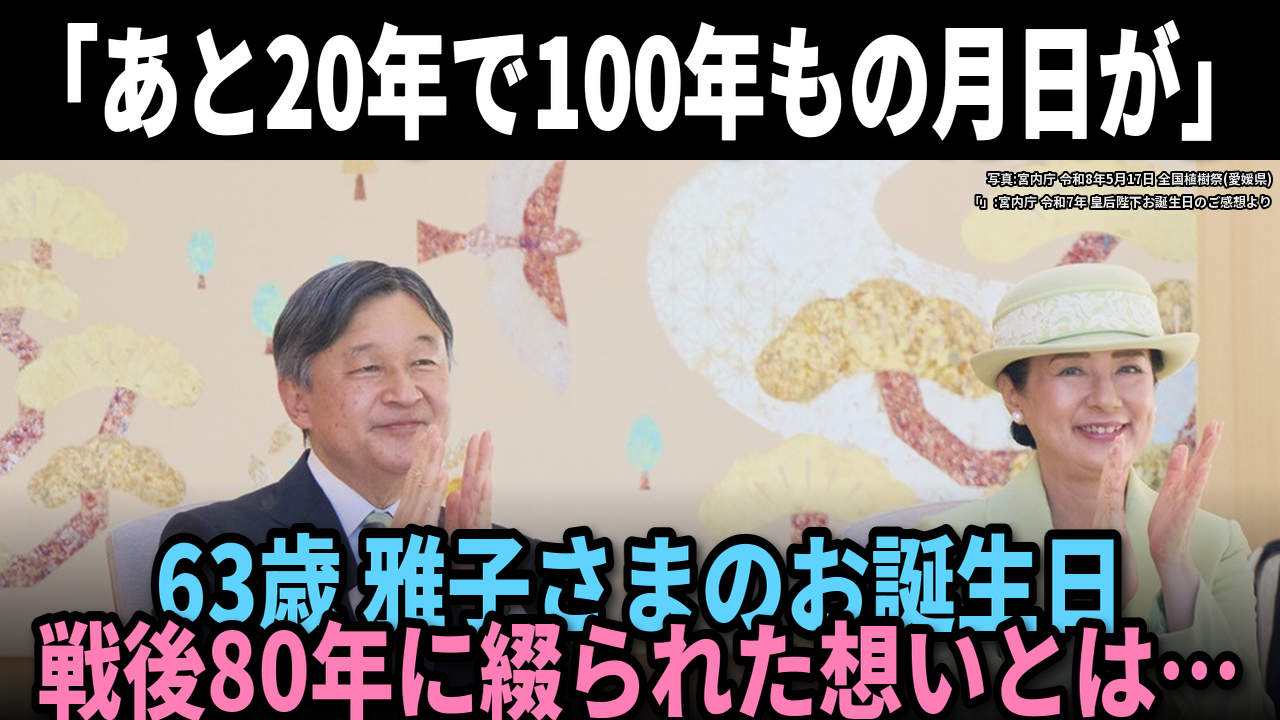
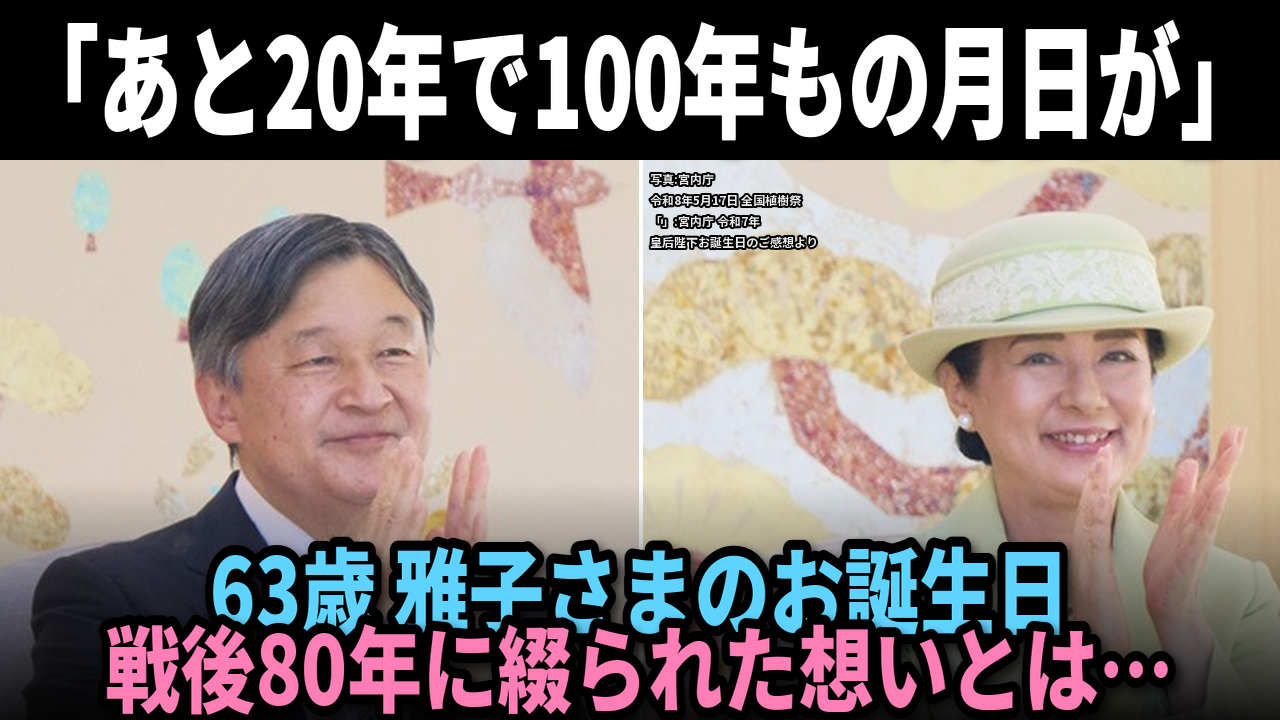
表紙 長尺②: お顔を見本の大きさ(画面の高さの約4割)に。両陛下を左右2枚に分けて拡大
Claude-Session: https://claude.ai/code/session_01BJaPidxzmnRS1K4CmysiYX

diff --git a/projects/PLAN-20261127-DRAMA/thumb_v3/make_v3.py b/projects/PLAN-20261127-DRAMA/thumb_v3/make_v3.py
@@ -19,7 +19,7 @@ BLUE = (95, 211, 255); PINK = (255, 126, 182)   # 3段の時は3色(荒木指示
 # お顔・頭の範囲(書き出し後の座標。目視で登録し、余白30pxを足して検査する)
 HEADS = {
  "L1": [(265, 60, 450, 305), (715, 90, 885, 285), (1120, 20, 1280, 245)],
- "L2": [(265, 254, 475, 469), (985, 259, 1195, 454)],
+ "L2": [(177, 205, 464, 498), (921, 205, 1208, 472)],
  "L3": [(235, 79, 435, 309), (735, 109, 955, 359)],
  "S":  [],  # ショートは写真の上に文字を置かない(帯の中だけ)
 }
@@ -79,17 +79,23 @@ def ctext(im, center, s, path, fill, glyph_h, maxw, condense=0.76, stroke=10, bo
     x = int(center[0] - lay.width / 2); y = int(center[1] - lay.height / 2)
     sh = Image.new("RGBA", lay.size, (0, 0, 0, 0)); sh.putalpha(lay.split()[-1].point(lambda v: int(v * 0.7)))
     im.alpha_composite(sh.filter(ImageFilter.GaussianBlur(5)), (x + 4, y + 6)); im.alpha_composite(lay, (x, y))
-    BOXES.append((s, (x, y, x + lay.width, y + lay.height)))
+    bb = lay.split()[-1].getbbox()
+    BOXES.append((s, (x + bb[0], y + bb[1], x + bb[2], y + bb[3])))
 
 def L2():
     # 荒木指示 2026-11-28: 見本(JAPANマインドの表紙)の書体と文字の大きさに合わせる。上段は白。3段3色(白・水色・ピンク)
     im = Image.new("RGBA", (1280, 720), (0, 0, 0, 255))
-    im.paste(photo("shokuju", (0, 60, 920, 463), (1280, 560)), (0, 160))
+    # 荒木指示 2026-11-28: お顔を見本(画面の高さの約4割)まで大きく → 陛下と雅子さまを左右2枚に分けて約2倍に
+    im.paste(photo("shokuju", (97, 104, 434, 399), (640, 560)), (0, 160))
+    im.paste(photo("shokuju", (560, 107, 897, 402), (640, 560)), (640, 160))
+    ImageDraw.Draw(im).line((640, 160, 640, 720), fill=WHITE, width=4)
     vgrad(im, 480, 720, color=(0, 0, 0), a1=235)
     ctext(im, (640, 80), "「" + QUOTE + "」", SANS, WHITE, 112, 1265, condense=0.68, bold=1)
-    ctext(im, (640, 584), "63歳 雅子さまのお誕生日", SANS, BLUE, 90, 1250, condense=0.80, bold=0)
-    ctext(im, (640, 671), "戦後80年に綴られた想いとは…", SANS, PINK, 90, 1250, condense=0.80, bold=0)
-    credit(im, (1272, 168), ["写真:宮内庁 " + P["shokuju"][1], SRCQ], 13, anchor="ra")
+    ctext(im, (640, 592), "63歳 雅子さまのお誕生日", SANS, BLUE, 80, 1250, condense=0.80, bold=0)
+    ctext(im, (640, 670), "戦後80年に綴られた想いとは…", SANS, PINK, 80, 1250, condense=0.80, bold=0)
+    cr = ["写真:宮内庁", "令和8年5月17日 全国植樹祭", "「」:宮内庁 令和7年", "皇后陛下お誕生日のご感想より"]
+    credit(im, (650, 170), cr, 12, anchor="la")
+    BOXES.append(("出典", (650, 170, 650 + 12 * 15, 170 + 4 * 16)))
     check("L2"); return im
 
 # ---- 長尺③ 一場面の大写し+短い一言: 両陛下を大きく、文字は右下に寄せて短く ----
